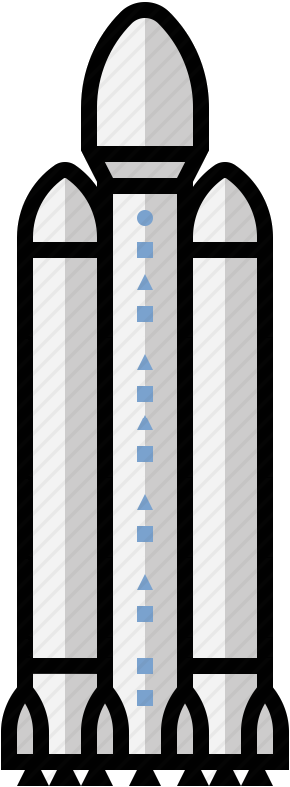
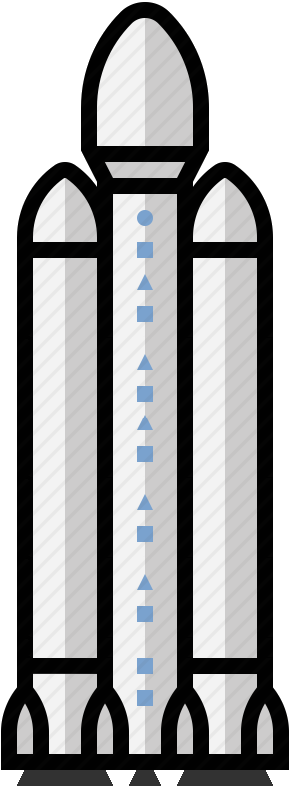
Optical adjustments
* Rocket's thrusters aren't black anymore to look better in Release builds
 * Disabled bounding box for ScreenText

Changed region(s): [[0.0621, 0.9759, 0.4034, 1.0], [0.6207, 0.9759, 0.931, 1.0], [0.4345, 0.9759, 0.5586, 1.0]]

diff --git a/Lander/ScreenText.hpp b/Lander/ScreenText.hpp
@@ -14,6 +14,8 @@ namespace Lander {
 
     virtual void Draw(RenderInterface& renderInterface, double secondsPassed) override;
 
+    virtual bool DrawBoundingBox() override { return false; }
+
   private:
 
     RenderInterface::TextFormat textFormat; //The format used, to write the text
